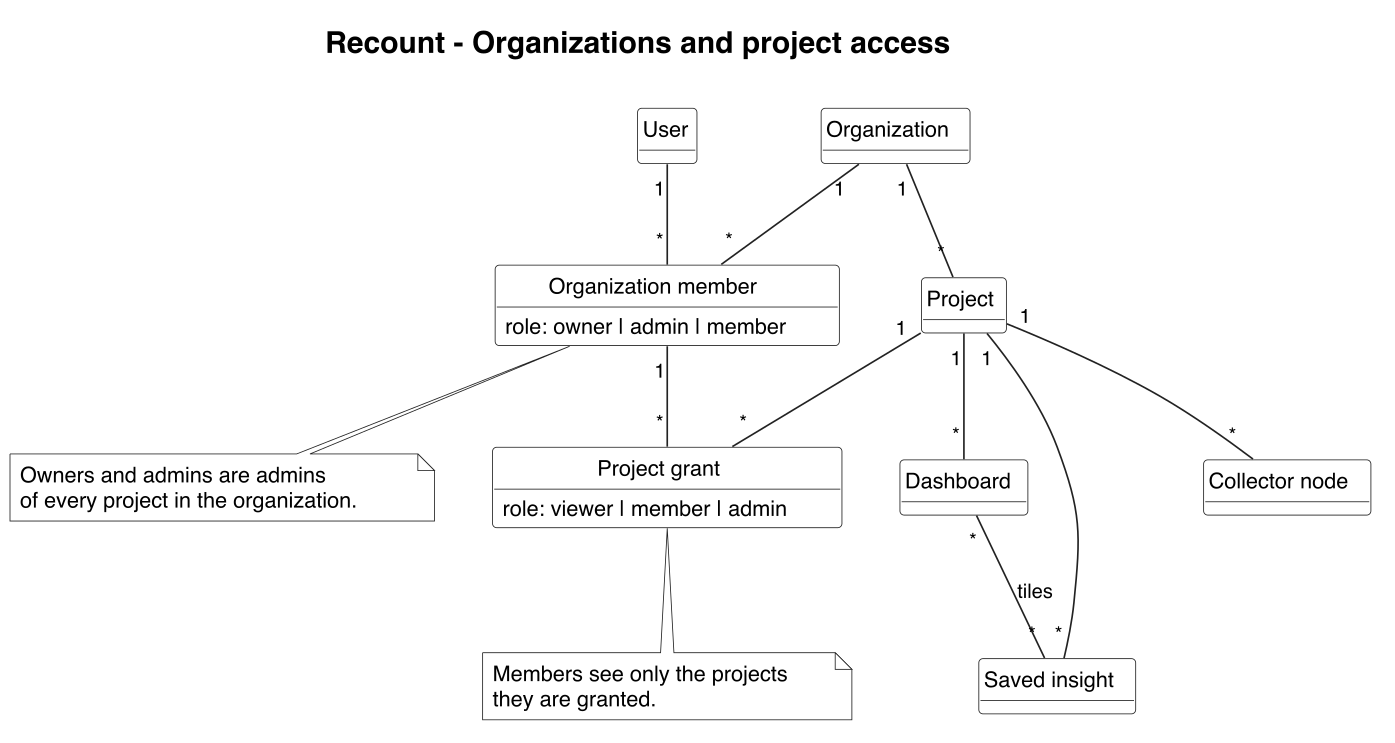
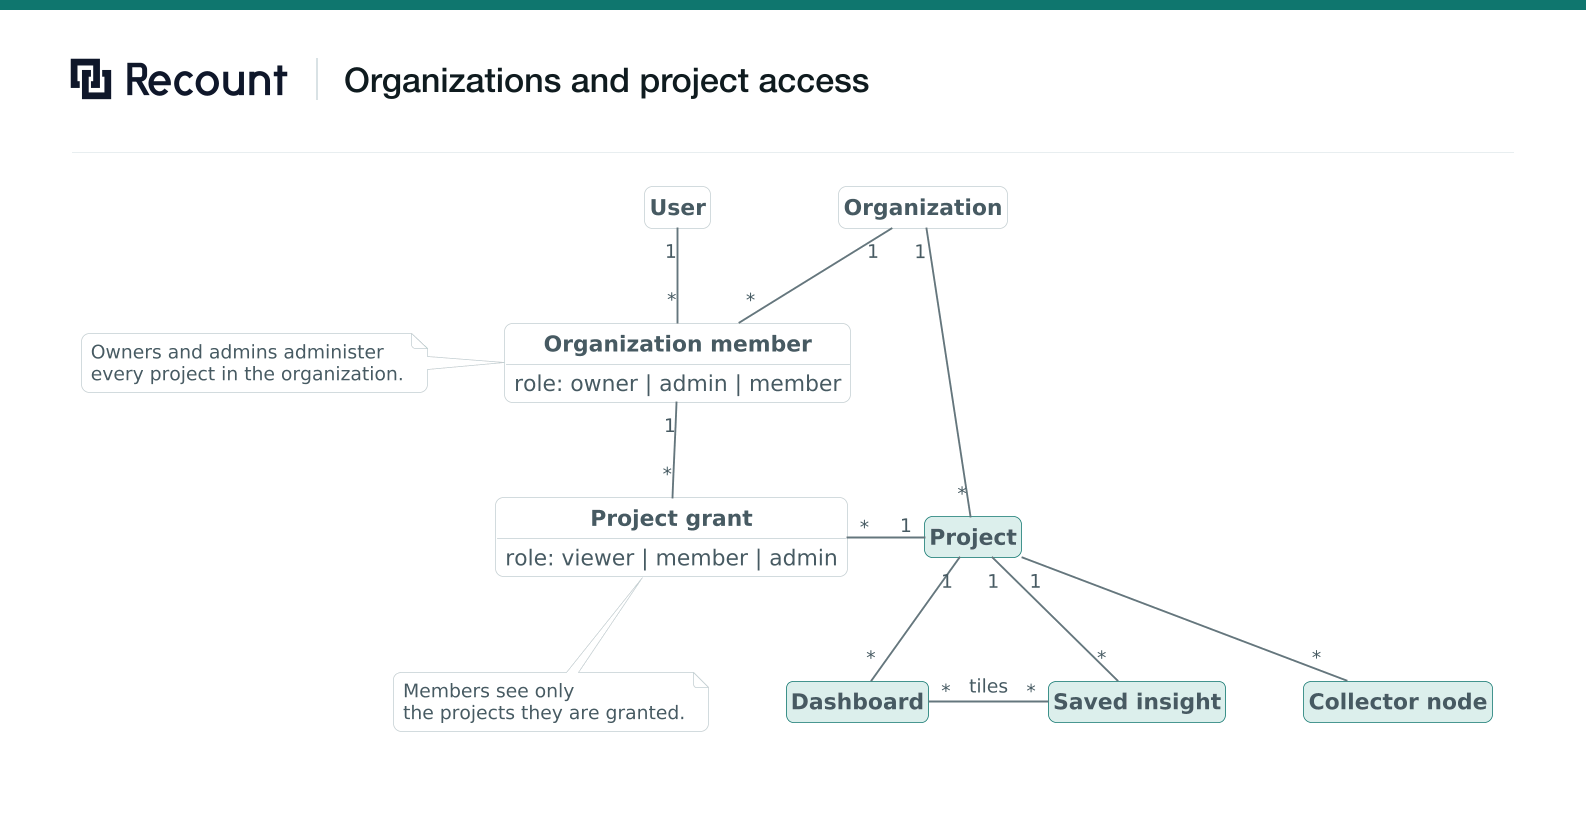
docs: apply Recount styling to the architecture diagrams

diff --git a/docs/architecture.md b/docs/architecture.md
@@ -68,14 +68,13 @@ Validate semantic fixtures separately from real Kafka/MV replay, poison, checkpo
 
 ## Local diagram sources
 
-PlantUML sources and their rendered PNG/SVG files share styling in `diagram-style.iuml`. Rendering tools are not managed by this repository.
+PlantUML sources share the Recount styling in `diagram-style.iuml`; teal boxes are Recount components. Rendered PNGs are in `diagrams/`; rendering tools are not managed by this repository.
 
-| Diagram                                               | Shows                                                     |
-| ----------------------------------------------------- | --------------------------------------------------------- |
-| [current-architecture](current-architecture.puml)     | Components and their connections                          |
-| [deployment](deployment.puml)                         | Where each component runs                                 |
-| [telemetry-flow](telemetry-flow.puml)                 | One upload from collector to dashboard                    |
-| [telemetry-retry](telemetry-retry.puml)               | A retried upload stored once                              |
-| [execution-participants](execution-participants.puml) | How a labelled process joins an execution                 |
-| [application-access](application-access.puml)         | Organizations, projects, roles and their resources        |
-| [delivery-pipeline](delivery-pipeline.puml)           | Checks, tests, build and approved deployment after a push |
+| Diagram                                               | Shows                                              |
+| ----------------------------------------------------- | -------------------------------------------------- |
+| [current-architecture](current-architecture.puml)     | Components and their connections                   |
+| [deployment](deployment.puml)                         | Where each component runs                          |
+| [telemetry-flow](telemetry-flow.puml)                 | One upload from collector to dashboard             |
+| [telemetry-retry](telemetry-retry.puml)               | A retried upload stored once                       |
+| [execution-participants](execution-participants.puml) | How a labelled process joins an execution          |
+| [application-access](application-access.puml)         | Organizations, projects, roles and their resources |
